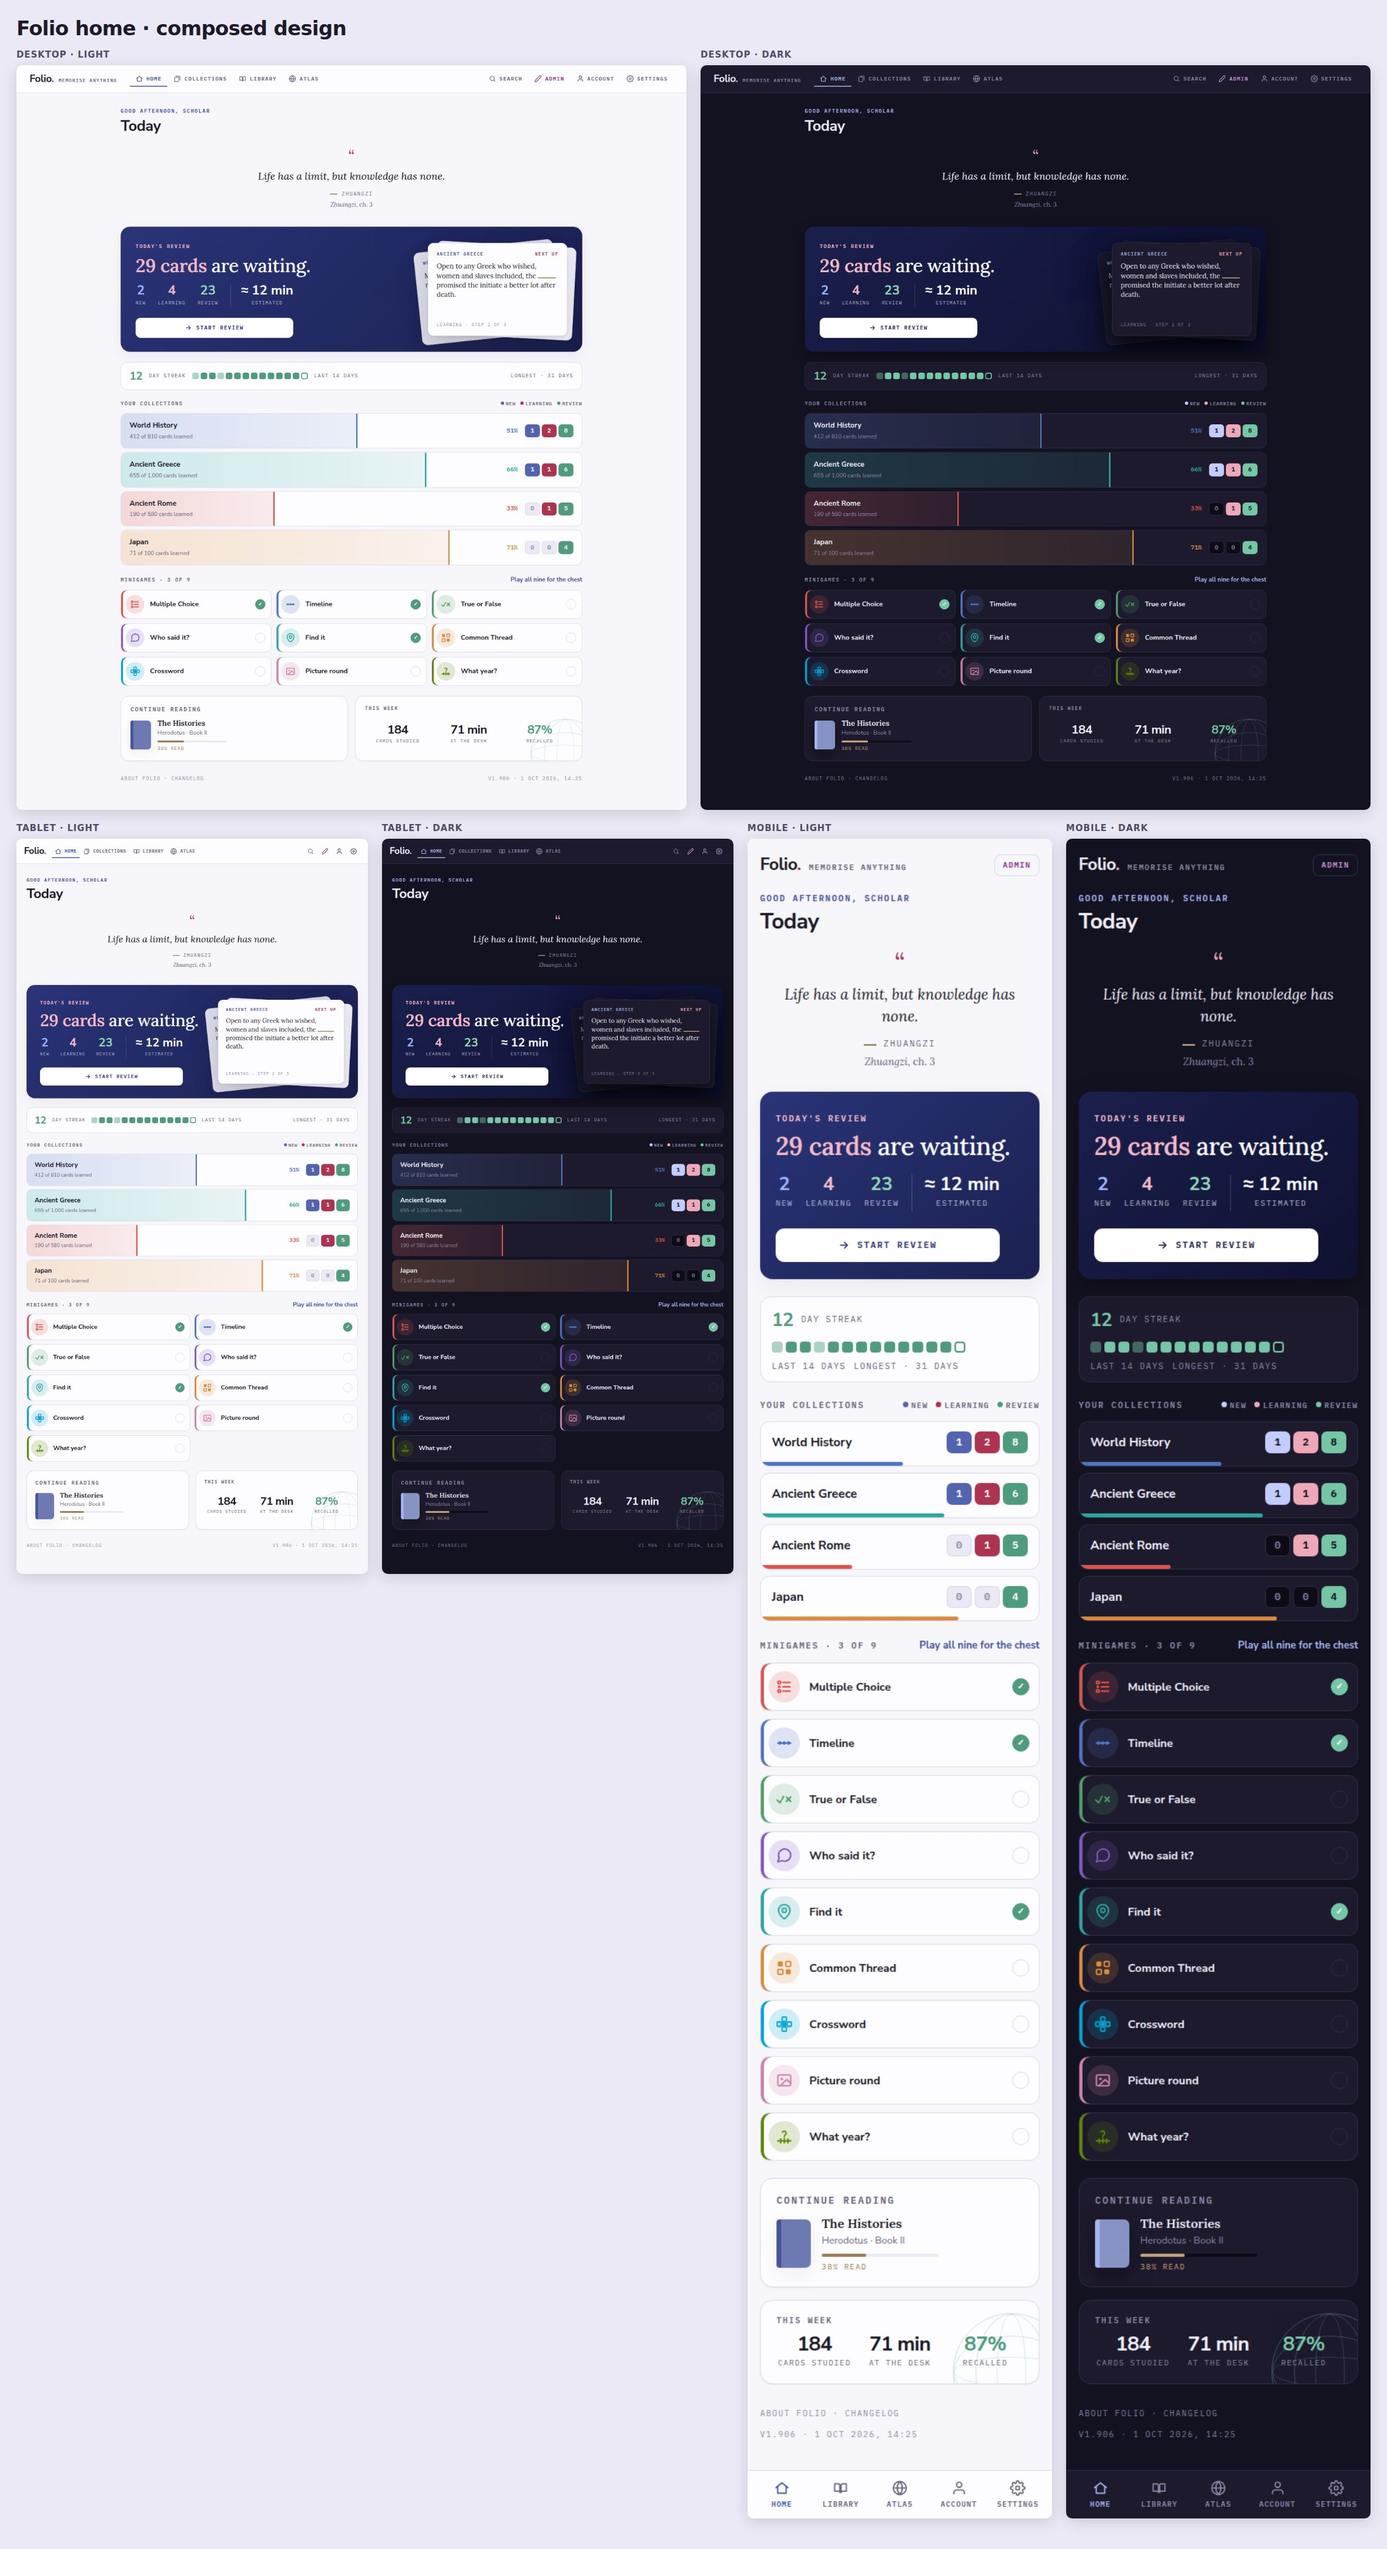
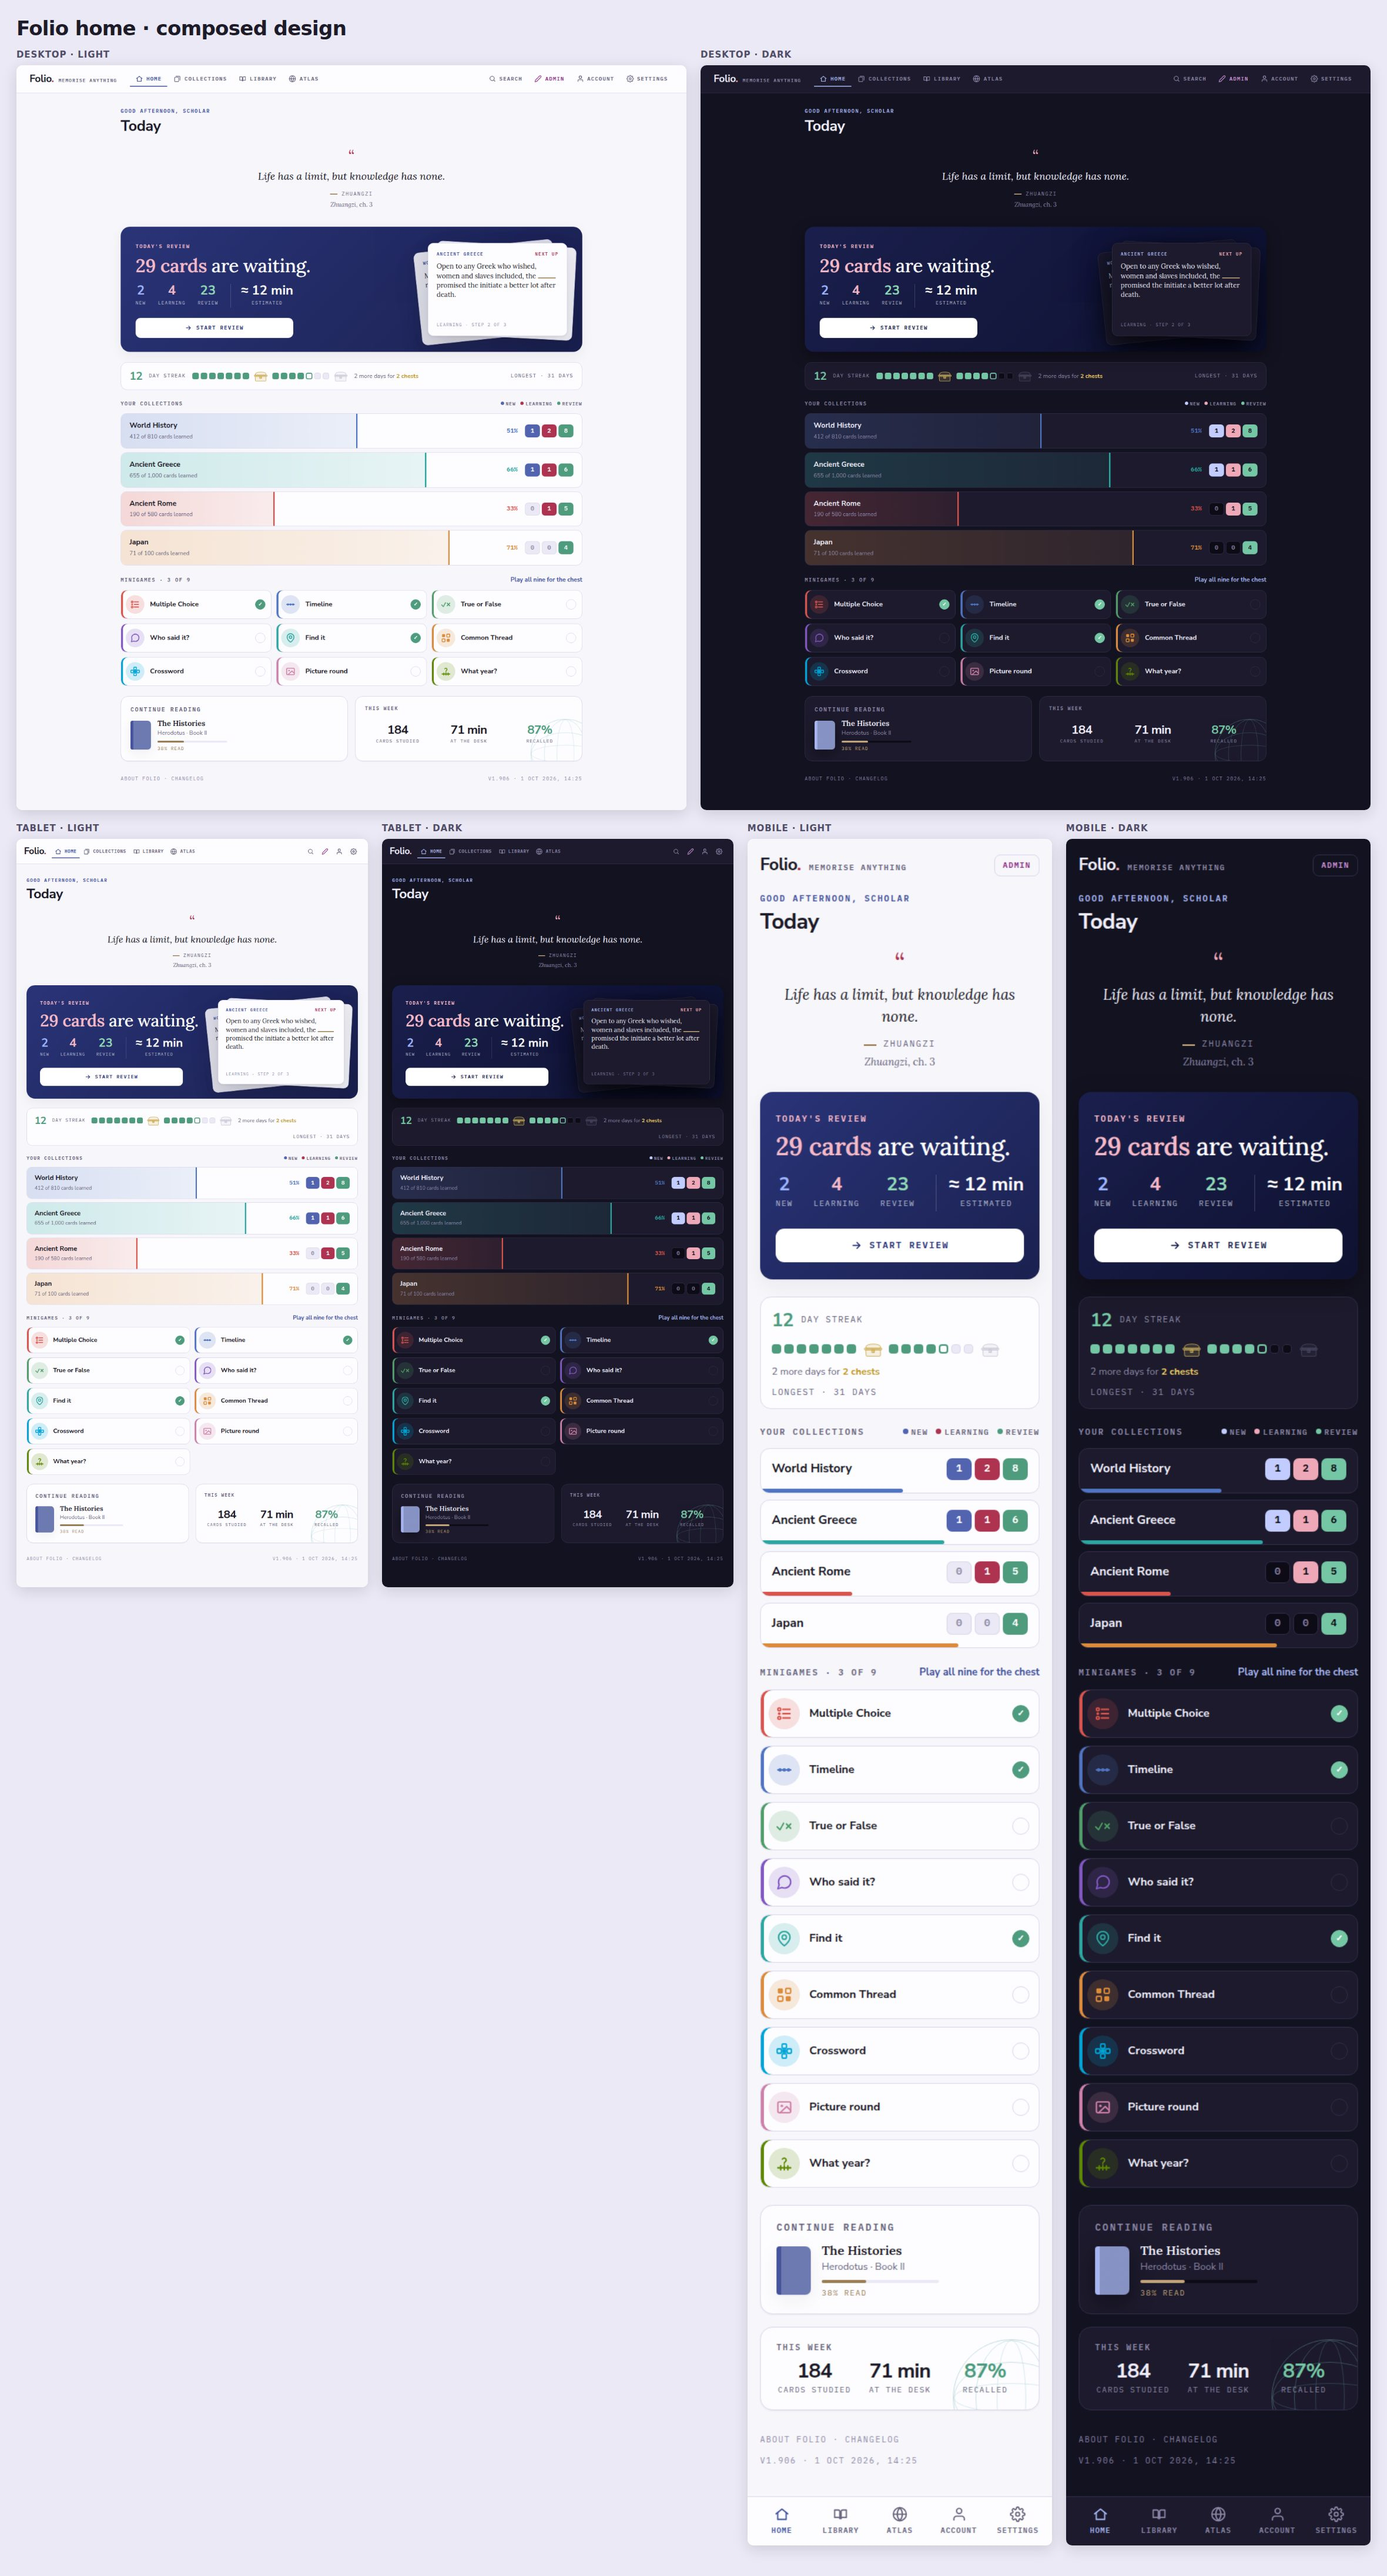
Composed home page: full-width phone button; streak chests in the ribbon
The ribbon shows each week of the run ending in a chest, gold once paid; the
Account page's Next streak chest box goes when this is implemented.

Claude-Session: https://claude.ai/code/session_01FZqnjJL9hSmvynj3x2xjzS

diff --git a/docs/mockups/home-redesigns/final/build.js b/docs/mockups/home-redesigns/final/build.js
@@ -16,10 +16,35 @@ const P = new Function("G", "fs", "path", "__dirname", helpers2 + helpers2b + he
   "\nreturn {I, topbar, tabbar, phoneHead, readingBox, foot, GAMES, DECKS, pct, boxes, legend, quote, globeDeco, banner, ribbon, PARTS};")(G, fs, path, path.join(__dirname, "..", "round-4"));
 
 const bannerStacked = () => P.banner().replace(/(<div class="pile">[\s\S]*?<\/div>)\s*(<a class="go"[\s\S]*?<\/a>)/, '<div class="stack">$1$2</div>');
+const CHEST = `<svg class="chest-svg" viewBox="0 0 120 96" fill="none" stroke="currentColor" stroke-width="3.4" stroke-linecap="round" stroke-linejoin="round" aria-hidden="true"><g class="chest-lid"><path d="M14 40V30a46 16 0 0 1 92 0v10z" fill="currentColor" fill-opacity=".14"/><path d="M6 40h108v11H6z" fill="currentColor" fill-opacity=".22"/></g><g class="chest-box"><path d="M14 51h92v35a6 6 0 0 1-6 6H20a6 6 0 0 1-6-6z" fill="currentColor" fill-opacity=".14"/><path d="M52 51h16v17H52z" fill="currentColor" fill-opacity=".3"/><path d="M60 60v6"/></g></svg>`;
+/* THE STREAK RIBBON WITH ITS CHESTS. Seven days in a row earn a chest and every week after that is worth one
+   more (STREAK_CHEST_EVERY = 7 in app.js; maybeStreakChest pays it). The strip shows the current run in
+   weeks: each week's seven days end in a chest, gold once that week is paid, quiet while it is being
+   earned. With a 12-day streak the first chest is paid and the second is two days off and worth two.
+   IMPLEMENTATION NOTE: this ribbon takes over `streakChestHTML` (the "Next streak chest" box on the
+   Account page), which is removed there so the chest is said once. */
+const ribbonChests = () => {
+  const streak = 12, every = 7, weeks = Math.ceil(streak / every) || 1;
+  let out = "";
+  for (let w = 0; w < Math.max(weeks, 2); w++) {
+    const days = Array.from({ length: every }, (_, i) => { const d = w * every + i + 1; return `<i class="${d <= streak ? (d === streak ? "t" : "") : "o"}"></i>`; }).join("");
+    const paid = (w + 1) * every <= streak;
+    out += `<span class="wk">${days}<span class="chest ${paid ? "won" : ""}" title="${paid ? "Week " + (w + 1) + " paid" : "Worth " + (w + 1) + (w ? " chests" : " chest")}">${CHEST}</span></span>`;
+  }
+  return out;
+};
+const ribbon = () => `<div class="ribbon"><b>12</b><span class="t">day streak</span><span class="days">${ribbonChests()}</span><span class="note">2 more days for <b class="n2">2 chests</b></span><span class="r">Longest · 31 days</span></div>`;
 const greet = () => `<div class="greet"><span class="eyebrow">Good afternoon, Scholar</span><h1>Today</h1></div>`;
 const thisWeek = () => `<section class="box week"><span class="k">This week</span><div class="stats"><div><b>184</b><span>cards studied</span></div><div><b>71 min</b><span>at the desk</span></div><div class="g"><b>87%</b><span>recalled</span></div></div>${P.globeDeco().replace('class="gdeco "','class="gdeco" style="right:-40px;bottom:-60px;width:150px;height:150px"')}</section>`;
 
 const CSS = `
+/* the ribbon's weeks and chests */
+.ribbon .days{display:flex; gap:10px; align-items:center; flex-wrap:wrap;}
+.ribbon .wk{display:inline-flex; gap:4px; align-items:center;}
+.ribbon .days i.o{background:var(--paper-2); border:1px solid var(--rule); box-sizing:border-box;}
+.ribbon .chest{display:inline-block; width:30px; margin-left:6px; color:var(--ink-faint); opacity:.55;} .ribbon .chest svg{width:100%; height:auto; display:block;}
+.ribbon .chest.won{color:#C39A2E; opacity:1;} .night .ribbon .chest.won{color:#E6C765;} @media (prefers-color-scheme: dark){ :root:not(.light) .ribbon .chest.won{color:#E6C765;} }
+.ribbon .note{text-transform:none; letter-spacing:0; font-family:var(--sans); font-size:12.5px; color:var(--ink-quiet);} .ribbon .note .n2{font-family:var(--sans); font-size:12.5px; color:#C39A2E; font-weight:800; letter-spacing:0;} .night .ribbon .note .n2{color:#E6C765;} @media (prefers-color-scheme: dark){ :root:not(.light) .ribbon .note .n2{color:#E6C765;} }
 /* the pile's figures sit centred over their labels */
 .study .pile div{text-align:center;} .study .pile .t{text-align:center;}
 /* the pile and the button share one width: a stack as wide as the figures, and the button fills it */
@@ -47,7 +72,8 @@ const CSS = `
 .week .stats .g b{color:var(--good);}
 .two{display:grid; grid-template-columns:1fr 1fr; gap:16px;}
 @media (max-width:1024px){ .list{grid-template-columns:1fr 1fr;} }
-@media (max-width:640px){ .wrap{padding:18px 16px 100px;} .fr{grid-template-columns:1fr auto; padding:12px 14px 16px;} .fr .pct{display:none;}
+@media (max-width:640px){ .ribbon .days{gap:8px;} .ribbon .days i{width:12px; height:12px;} .ribbon .chest{width:24px;} .ribbon .note{flex-basis:100%;} .ribbon .r{margin-left:0;}
+ .wrap{padding:18px 16px 100px;} .study .stack{width:100%;} .study .stack .pile{justify-content:space-between;} .fr{grid-template-columns:1fr auto; padding:12px 14px 16px;} .fr .pct{display:none;}
   .fr::before{top:auto; height:5px; border-right:0; background:var(--c); border-radius:0 3px 3px 0;} .fr .m{display:none;} .list{grid-template-columns:1fr;} .two{grid-template-columns:1fr;} }`;
 
 const html = `<!DOCTYPE html>
@@ -71,7 +97,7 @@ ${P.topbar()}
   ${P.quote()}
   ${bannerStacked()}
   <div class="gap"></div>
-  ${P.ribbon()}
+  ${ribbon()}
   <div class="gap"></div>
   <div class="sec-h"><span>Your collections</span>${P.legend()}</div>
   <div class="fill">${P.DECKS.map(d => `<a class="fr" href="#study" style="--c:${d[1]}; --w:${P.pct(d)}%"><span><b class="name">${d[0]}</b><span class="m" data-pct="${P.pct(d)}">${d[6]} of ${d[5].toLocaleString()} cards learned</span></span><span class="pct">${P.pct(d)}%</span>${P.boxes(d)}</a>`).join("")}</div>

diff --git a/docs/mockups/home-redesigns/final/home-composed.html b/docs/mockups/home-redesigns/final/home-composed.html
@@ -93,6 +93,13 @@
 }
 
 
+/* the ribbon's weeks and chests */
+.ribbon .days{display:flex; gap:10px; align-items:center; flex-wrap:wrap;}
+.ribbon .wk{display:inline-flex; gap:4px; align-items:center;}
+.ribbon .days i.o{background:var(--paper-2); border:1px solid var(--rule); box-sizing:border-box;}
+.ribbon .chest{display:inline-block; width:30px; margin-left:6px; color:var(--ink-faint); opacity:.55;} .ribbon .chest svg{width:100%; height:auto; display:block;}
+.ribbon .chest.won{color:#C39A2E; opacity:1;} .night .ribbon .chest.won{color:#E6C765;} @media (prefers-color-scheme: dark){ :root:not(.light) .ribbon .chest.won{color:#E6C765;} }
+.ribbon .note{text-transform:none; letter-spacing:0; font-family:var(--sans); font-size:12.5px; color:var(--ink-quiet);} .ribbon .note .n2{font-family:var(--sans); font-size:12.5px; color:#C39A2E; font-weight:800; letter-spacing:0;} .night .ribbon .note .n2{color:#E6C765;} @media (prefers-color-scheme: dark){ :root:not(.light) .ribbon .note .n2{color:#E6C765;} }
 /* the pile's figures sit centred over their labels */
 .study .pile div{text-align:center;} .study .pile .t{text-align:center;}
 /* the pile and the button share one width: a stack as wide as the figures, and the button fills it */
@@ -120,7 +127,8 @@
 .week .stats .g b{color:var(--good);}
 .two{display:grid; grid-template-columns:1fr 1fr; gap:16px;}
 @media (max-width:1024px){ .list{grid-template-columns:1fr 1fr;} }
-@media (max-width:640px){ .wrap{padding:18px 16px 100px;} .fr{grid-template-columns:1fr auto; padding:12px 14px 16px;} .fr .pct{display:none;}
+@media (max-width:640px){ .ribbon .days{gap:8px;} .ribbon .days i{width:12px; height:12px;} .ribbon .chest{width:24px;} .ribbon .note{flex-basis:100%;} .ribbon .r{margin-left:0;}
+ .wrap{padding:18px 16px 100px;} .study .stack{width:100%;} .study .stack .pile{justify-content:space-between;} .fr{grid-template-columns:1fr auto; padding:12px 14px 16px;} .fr .pct{display:none;}
   .fr::before{top:auto; height:5px; border-right:0; background:var(--c); border-radius:0 3px 3px 0;} .fr .m{display:none;} .list{grid-template-columns:1fr;} .two{grid-template-columns:1fr;} }
 </style>
 </head>
@@ -143,7 +151,7 @@
 </div>
 </section>
   <div class="gap"></div>
-  <div class="ribbon "><b>12</b><span class="t">day streak</span><span class="days"><i class="a"></i><i class="b"></i><i class="b"></i><i class="a"></i><i class="b"></i><i class="b"></i><i class="b"></i><i class="b"></i><i class="b"></i><i class="b"></i><i class="b"></i><i class="b"></i><i class="b"></i><i class="t"></i></span><span class="t">last 14 days</span><span class="r">Longest · 31 days</span></div>
+  <div class="ribbon"><b>12</b><span class="t">day streak</span><span class="days"><span class="wk"><i class=""></i><i class=""></i><i class=""></i><i class=""></i><i class=""></i><i class=""></i><i class=""></i><span class="chest won" title="Week 1 paid"><svg class="chest-svg" viewBox="0 0 120 96" fill="none" stroke="currentColor" stroke-width="3.4" stroke-linecap="round" stroke-linejoin="round" aria-hidden="true"><g class="chest-lid"><path d="M14 40V30a46 16 0 0 1 92 0v10z" fill="currentColor" fill-opacity=".14"/><path d="M6 40h108v11H6z" fill="currentColor" fill-opacity=".22"/></g><g class="chest-box"><path d="M14 51h92v35a6 6 0 0 1-6 6H20a6 6 0 0 1-6-6z" fill="currentColor" fill-opacity=".14"/><path d="M52 51h16v17H52z" fill="currentColor" fill-opacity=".3"/><path d="M60 60v6"/></g></svg></span></span><span class="wk"><i class=""></i><i class=""></i><i class=""></i><i class=""></i><i class="t"></i><i class="o"></i><i class="o"></i><span class="chest " title="Worth 2 chests"><svg class="chest-svg" viewBox="0 0 120 96" fill="none" stroke="currentColor" stroke-width="3.4" stroke-linecap="round" stroke-linejoin="round" aria-hidden="true"><g class="chest-lid"><path d="M14 40V30a46 16 0 0 1 92 0v10z" fill="currentColor" fill-opacity=".14"/><path d="M6 40h108v11H6z" fill="currentColor" fill-opacity=".22"/></g><g class="chest-box"><path d="M14 51h92v35a6 6 0 0 1-6 6H20a6 6 0 0 1-6-6z" fill="currentColor" fill-opacity=".14"/><path d="M52 51h16v17H52z" fill="currentColor" fill-opacity=".3"/><path d="M60 60v6"/></g></svg></span></span></span><span class="note">2 more days for <b class="n2">2 chests</b></span><span class="r">Longest · 31 days</span></div>
   <div class="gap"></div>
   <div class="sec-h"><span>Your collections</span><span class="legend"><span class="n"><i></i>New</span><span class="l"><i></i>Learning</span><span class="r"><i></i>Review</span></span></div>
   <div class="fill"><a class="fr" href="#study" style="--c:#4F74C2; --w:51%"><span><b class="name">World History</b><span class="m" data-pct="51">412 of 810 cards learned</span></span><span class="pct">51%</span><span class="boxes"><i class="n">1</i><i class="l">2</i><i class="r">8</i></span></a><a class="fr" href="#study" style="--c:#2BA6A0; --w:66%"><span><b class="name">Ancient Greece</b><span class="m" data-pct="66">655 of 1,000 cards learned</span></span><span class="pct">66%</span><span class="boxes"><i class="n">1</i><i class="l">1</i><i class="r">6</i></span></a><a class="fr" href="#study" style="--c:#D9544C; --w:33%"><span><b class="name">Ancient Rome</b><span class="m" data-pct="33">190 of 580 cards learned</span></span><span class="pct">33%</span><span class="boxes"><i class="z">0</i><i class="l">1</i><i class="r">5</i></span></a><a class="fr" href="#study" style="--c:#DB8B3A; --w:71%"><span><b class="name">Japan</b><span class="m" data-pct="71">71 of 100 cards learned</span></span><span class="pct">71%</span><span class="boxes"><i class="z">0</i><i class="z">0</i><i class="r">4</i></span></a></div>

diff --git a/docs/mockups/home-redesigns/final/README.md b/docs/mockups/home-redesigns/final/README.md
@@ -2,11 +2,13 @@
 
 One design assembled on request from round 4 (`../round-4/`):
 
-- **Compass**: the study banner ("29 cards" in rose, new / learning / review in blue / red / green, a
+- **Compass**: the study banner (on the phone the Start button runs the banner's full content width) ("29 cards" in rose, new / learning / review in blue / red / green, a
   bare "≈ 12 min" estimate from the reader's per-deck pace, the card preview) and the 14-day streak ribbon.
 - **Tabular**: the minigame list-tiles (icon disc, name, tick) and the Continue Reading row.
 - **Keys**: the This Week box and the active-deck rows whose fill is the share of the collection learned,
   with the blue / red / green number boxes.
+
+The streak ribbon carries the **streak chests**: each week of the run ends in the site's chest glyph, gold once that week is paid (`maybeStreakChest`, every seventh day, worth one more each week), quiet while it is being earned, with the days to the next one and what it is worth. **The implementation removes the "Next streak chest" box from the Account page** (`streakChestHTML`), so the chest is said once.
 
 The greeting carries no date, ever. The order is greeting, quote, banner, ribbon, collections,
 minigames, reading beside This Week. `build.js` borrows the parts from the round-4 and round-2
